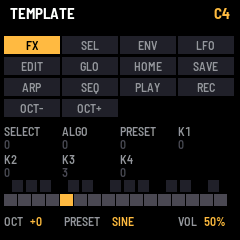
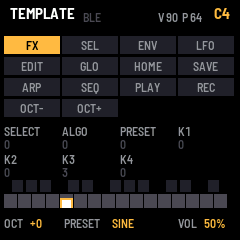
Template: velocity and pressure on the keys, and Bluetooth MIDI
The keys play with velocity (the voice's level, the note's velocity) and send their pressure as
poly aftertouch; a held key fills to its velocity on the screen, white over that for its
pressure, and the header shows both. Bluetooth is on (fm1.toml ble = true, OBJ_BLE), with BLE
in the header lit while a central is connected. Manual, front page, tests and screenshots to
match.

diff --git a/template/app.c b/template/app.c
@@ -2,8 +2,8 @@
  * Copyright (C) 2026 Charles Vestal */
 /* The template app: every control on the screen as it arrives, by the name the app knows it by (plat.h B_*, EN_*,
  * the keys), and a few of them doing something: the keys play a voice and go out over USB-MIDI (MIDI in plays it
- * too), OCT- / OCT+ set the octave, PRESET the wave, MASTER the volume, SAVE stores the settings. One of each thing
- * the platform offers, kept short. Part of the unity build (device/unity.c, host/plat_host.c), after the platform:
+ * too), OCT- / OCT+ set the octave, PRESET the wave, MASTER the volume, SAVE stores the settings; the keys are
+ * played with velocity and pressure (lib/touch.h), shown on them. One of each thing the platform offers, kept short. Part of the unity build (device/unity.c, host/plat_host.c), after the platform:
  * gfx.c and announce.c are in scope. */
 #include "fastmath.h"
 
@@ -26,9 +26,14 @@ static const char *const ENC_NAME[NE] = {"SELECT", "ALGO", "PRESET", "K1", "K2",
 /* ------------------------------------------------------------------ voice --- */
 /* one voice, the last note wins; the main loop and MIDI in set it, the audio interrupt plays it */
 static volatile int32_t voice_note = -1;     /* MIDI note, -1 = released */
+static volatile float voice_vel = 1.0f;      /* the note's velocity, 0..1 */
 static float voice_phase, voice_level, gain_now;   /* gain_now glides to MASTER: no step at a block's edge */
 
-static void note_on(int32_t note) { voice_note = note; }
+static void note_on(int32_t note, uint32_t vel)
+{
+    voice_vel = (float)vel / 127.0f;
+    voice_note = note;
+}
 static void note_off(int32_t note)
 {
     if (voice_note == note)
@@ -41,7 +46,7 @@ static void midi_in(void)                    /* audio interrupt: the packets tha
     while (plat_midi_in(&pkt, 0)) {
         uint32_t st = (pkt >> 8) & 0xFFu, d1 = (pkt >> 16) & 0x7Fu, d2 = pkt >> 24;
         if ((st & 0xF0u) == 0x90u && d2)
-            note_on((int32_t)d1);
+            note_on((int32_t)d1, d2);
         else if ((st & 0xF0u) == 0x80u || (st & 0xF0u) == 0x90u)
             note_off((int32_t)d1);
     }
@@ -51,7 +56,7 @@ void app_render(int32_t *lr, uint32_t n, uint32_t master_q12)
 {
     uint32_t i;
     int32_t note = voice_note;
-    float target = note >= 0 ? 0.25f : 0.0f;
+    float target = note >= 0 ? 0.25f * voice_vel : 0.0f;
     float inc = note >= 0 ? 440.0f * fm_exp2f((float)(note - 69) / 12.0f) / 44100.0f : 0.0f;
     float gain = (float)master_q12 / 4096.0f * 8300000.0f;   /* MASTER, read once a block */
     midi_in();
@@ -95,6 +100,8 @@ static struct {
     char msg[2][24];                     /* a short message over the header */
     uint32_t msg_until;
     uint32_t keys, btn;                  /* held at the last input */
+    uint8_t vel[NKEYS], prs[NKEYS];      /* each key's last velocity, and its pressure while held */
+    int32_t last_key;                    /* the key pressed last: its numbers in the header */
     int32_t turns[NE];                   /* detents since boot, per encoder */
     uint32_t turned_at[NE];              /* when each was last turned: it shows lit for a moment */
     uint8_t redraw;
@@ -195,17 +202,28 @@ static void octave_step(int32_t d)
 
 static void input(void)
 {
-    uint32_t keys = plat_keys(), btn = plat_buttons(), k;
+    uint32_t keys, btn = plat_buttons(), k;
     int32_t e;
+    touch_poll();                            /* the sensed keys' presses, velocities and pressure */
+    keys = touch_keys();
     for (k = 0; k < NKEYS; k++) {            /* key 0 is F3 (MIDI 53) */
-        uint32_t bit = 1u << k;
+        uint32_t bit = 1u << k, v;
         int32_t note = 53 + (int32_t)k + 12 * set.octave;
         if ((keys & bit) && !(ui.keys & bit)) {
-            note_on(note);
-            plat_midi_send(0x09u | 0x90u << 8 | (uint32_t)note << 16 | 100u << 24, TO_USB | TO_BLE);   /* BLE: if built with it */
+            v = touch_vel(k);
+            ui.vel[k] = (uint8_t)v;
+            ui.prs[k] = 0;
+            ui.last_key = (int32_t)k;
+            note_on(note, v);
+            plat_midi_send(0x09u | 0x90u << 8 | (uint32_t)note << 16 | v << 24, TO_USB | TO_BLE);   /* BLE: if built with it */
         } else if (!(keys & bit) && (ui.keys & bit)) {
+            ui.prs[k] = 0;
             note_off(note);
             plat_midi_send(0x08u | 0x80u << 8 | (uint32_t)note << 16, TO_USB | TO_BLE);
+        } else if ((keys & bit) && touch_pressure(k) != ui.prs[k]) {   /* pressure: poly aftertouch */
+            ui.prs[k] = touch_pressure(k);
+            ui.redraw = 1;
+            plat_midi_send(0x0Au | 0xA0u << 8 | (uint32_t)note << 16 | (uint32_t)ui.prs[k] << 24, TO_USB | TO_BLE);
         }
     }
     for (k = 0; k < NB; k++) {               /* a button pressed: its name, and what it does here */
@@ -259,6 +277,19 @@ static void cell(int32_t x, int32_t y, int32_t w, const char *s, int on)   /* a 
     cv_text(x + (w - text_w(&FONT_XS, s)) / 2, y + 2, &FONT_XS, s, on ? C_BLACK : C_GRAY);
 }
 
+static void key_cell(int32_t x, int32_t y, int32_t w, int32_t h, uint32_t k, uint16_t off)
+{
+    int32_t v, p;
+    cv_rect(x, y, w, h, off);
+    if (!(ui.keys >> k & 1u))
+        return;
+    v = (ui.vel[k] * h + 126) / 127;
+    p = (ui.prs[k] * h + 126) / 127;
+    cv_rect(x, y + h - v, w, v, C_HI);
+    if (p)
+        cv_rect(x + 2, y + h - p, w - 4, p, C_WHITE);
+}
+
 static void draw(void)
 {
     char t[24];
@@ -271,10 +302,23 @@ static void draw(void)
         int32_t x = cv_text(10, 6, &FONT_B, ui.msg[0], C_WHITE);
         cv_text(x + 8, 6, &FONT_B, ui.msg[1], C_HI);
     } else {
-        cv_text(10, 6, &FONT_B, APP_NAME, C_WHITE);
-        if (note >= 0) {
+        int32_t x = cv_text(10, 6, &FONT_B, APP_NAME, C_WHITE);
+        if (FM1B_BLE)                        /* Bluetooth: grey while it waits, lit while a computer is connected */
+            cv_text(x + 8, 10, &FONT_XS, "BLE", plat_ble_connected() ? C_HI : C_DIM);
+        if (note >= 0) {                     /* the note, and the last key's velocity and pressure */
+            int32_t x;
             note_name(note, t);
-            cv_text(230 - text_w(&FONT_B, t), 6, &FONT_B, t, C_HI);
+            x = 230 - text_w(&FONT_B, t);
+            cv_text(x, 6, &FONT_B, t, C_HI);
+            if (ui.keys >> ui.last_key & 1u) {
+                char n[24] = "V ";
+                int_text(ui.vel[ui.last_key], t);
+                text_cat(n, t);
+                text_cat(n, "  P ");
+                int_text(ui.prs[ui.last_key], t);
+                text_cat(n, t);
+                cv_text(x - 12 - text_w(&FONT_XS, n), 10, &FONT_XS, n, C_GRAY);
+            }
         }
     }
     cv_blit(0, 0);
@@ -290,35 +334,36 @@ static void draw(void)
         cv_text(x, y + 13, &FONT_XS, t, lit ? C_WHITE : C_DIM);
     }
     cv_blit(0, 36);
-    /* the keys, black above white, lit while held; then the settings */
+    /* the keys, black above white: a held key fills to its velocity (amber), its pressure over that (white) */
     cv_begin(240, 60, C_BLACK);
     for (i = 0; i < 16u; i++)
-        cv_rect(4 + (int32_t)i * 14, 14, 13, 12, (ui.keys >> WK[i]) & 1u ? C_HI : C_DIM);
+        key_cell(4 + (int32_t)i * 14, 14, 13, 14, WK[i], C_DIM);
     for (i = 0; i < 11u; i++) {
         static const uint8_t AT[11] = {0, 1, 2, 4, 5, 7, 8, 9, 11, 12, 14};   /* the white key each one follows */
-        cv_rect(4 + (int32_t)AT[i] * 14 + 8, 0, 11, 12, (ui.keys >> BK[i]) & 1u ? C_HI : C_LINE);
+        key_cell(4 + (int32_t)AT[i] * 14 + 8, 0, 11, 12, BK[i], C_LINE);
     }
     octave_text(t);
-    cv_text(4, 34, &FONT_XS, "OCT", C_GRAY);
-    cv_text(30, 34, &FONT_XS, t, C_HI);
-    cv_text(64, 34, &FONT_XS, "PRESET", C_GRAY);
-    cv_text(112, 34, &FONT_XS, WAVE_NAME[set.wave], C_HI);
-    cv_text(178, 34, &FONT_XS, "VOL", C_GRAY);
+    cv_text(4, 36, &FONT_XS, "OCT", C_GRAY);
+    cv_text(30, 36, &FONT_XS, t, C_HI);
+    cv_text(64, 36, &FONT_XS, "PRESET", C_GRAY);
+    cv_text(112, 36, &FONT_XS, WAVE_NAME[set.wave], C_HI);
+    cv_text(178, 36, &FONT_XS, "VOL", C_GRAY);
     int_text((int32_t)pct, t);
     text_cat(t, "%");
-    cv_text(204, 34, &FONT_XS, t, C_HI);
+    cv_text(204, 36, &FONT_XS, t, C_HI);
     cv_blit(0, 180);
 }
 
 void app_ui_init(void)
 {
+    touch_on(1);                             /* velocity and pressure: the keys' readings on */
     lcd_fill(0, 0, 240, 240, C_BLACK);
     ui.redraw = 1;
 }
 
 void app_frame(void)
 {
-    static uint32_t last_pct, lit_until;
+    static uint32_t last_pct, lit_until, last_ble;
     uint32_t i, now = plat_ms(), pct = plat_master() * 100u / 4096u;
     input();
     speak();
@@ -329,8 +374,9 @@ void app_frame(void)
         lit_until = 0;
         ui.redraw = 1;
     }
-    if (pct != last_pct || (ui.msg_until && now >= ui.msg_until)) {
+    if (pct != last_pct || (uint32_t)plat_ble_connected() != last_ble || (ui.msg_until && now >= ui.msg_until)) {
         last_pct = pct;
+        last_ble = (uint32_t)plat_ble_connected();
         if (now >= ui.msg_until)
             ui.msg_until = 0;
         ui.redraw = 1;
@@ -352,6 +398,10 @@ int app_expect(const char *what, int *got)
         *got = voice_note;
     else if (!strcmp(what, "dirty"))
         *got = set_dirty;
+    else if (!strcmp(what, "vel"))           /* the last key's velocity and pressure */
+        *got = ui.vel[ui.last_key];
+    else if (!strcmp(what, "prs"))
+        *got = ui.prs[ui.last_key];
     else if (!strncmp(what, "turns", 5))    /* turnsN: encoder N's count (plat.h EN_*) */
         *got = ui.turns[atoi(what + 5) % NE];
     else

diff --git a/template/app.h b/template/app.h
@@ -9,10 +9,12 @@
 #define APP_NAME "TEMPLATE"
 #define APP_SPLASH_RGB RGB(242, 120, 72)
 #define APP_BLOCK 256u                   /* frames per audio block: 5.8 ms at 44.1 kHz */
+#define APP_TOUCH                        /* velocity and pressure from the keys (lib/touch.h) */
 
-/* the store: the app's objects, the panel calibration (the platform's) among them, and their flash offsets */
-enum { OBJ_SETTINGS, OBJ_PANEL, OBJ_NOBJ };
-#define APP_STORE_MAP {0xFC000u, 0xDC000u}
+/* the store: the app's objects, the panel calibration (the platform's) and Bluetooth's address and pairing among
+ * them, and their flash offsets */
+enum { OBJ_SETTINGS, OBJ_PANEL, OBJ_BLE, OBJ_NOBJ };
+#define APP_STORE_MAP {0xFC000u, 0xDC000u, 0xDE000u}
 
 /* the contract: the platform calls these */
 void app_init(void);                     /* boot: the engine, then the saved settings (or defaults) */

diff --git a/template/docs/MANUAL.md b/template/docs/MANUAL.md
@@ -1,8 +1,8 @@
 # TEMPLATE
 
 TEMPLATE is the smallest complete firmware for the M-VAVE FM-1, made to be copied. Every control shows on the
-screen by its name as you use it, the keys play a simple voice, and a few controls do something: the octave, the
-wave, the volume and saving. It installs, updates, runs in the browser and speaks to a screen reader, as a finished
+screen by its name as you use it, the keys play a simple voice with velocity and pressure, and a few controls do
+something: the octave, the wave, the volume and saving. MIDI goes out over USB and Bluetooth. It installs, updates, runs in the browser and speaks to a screen reader, as a finished
 firmware does.
 
 This manual is also an example: copy it with the template and write your firmware's own.
@@ -40,14 +40,14 @@ doesn't start can be recovered too. For details, see felucca-bsp's `tools/fm1_re
 
 ## 2. The screen
 
-![TEMPLATE while a key is held: C4 in the header, FX lit among the buttons, K3 at 3, the key lit on the keyboard](img/screen-playing.png "A key held, FX pressed, K3 turned")
+![TEMPLATE while a key is held: C4 in the header with V 90 P 64, FX lit among the buttons, K3 at 3, the key filled on the keyboard](img/screen-playing.png "A key held, FX pressed, K3 turned")
 
 | Part | What it shows |
 | --- | --- |
-| Header | The name, and the note while a key plays. A message for a moment after a change. |
+| Header | The name, and BLE: lit while a computer or tablet is connected over Bluetooth. While a key plays, its note, the velocity it landed at (V) and how hard it's pressed (P). A message for a moment after a change. |
 | Buttons | All 14, by their names. A button lights while it's held. |
 | Knobs | The seven encoders, each with a count of its turns. A knob lights for a moment as it turns. |
-| Keys | The 27 keys, black above white. A key lights while it's held. |
+| Keys | The 27 keys, black above white. A held key fills to its velocity, and white over that shows its pressure. |
 | Bottom line | The octave, the wave (on PRESET) and the volume (MASTER). |
 
 ---
@@ -56,7 +56,7 @@ doesn't start can be recovered too. For details, see felucca-bsp's `tools/fm1_re
 
 | Control | What it does |
 | --- | --- |
-| Keys | Play the voice, and send the note over USB-MIDI on channel 1. The last key pressed sounds. |
+| Keys | Play the voice, louder the harder they land, and send the note over USB and Bluetooth on channel 1, with its velocity. Pressing a held key harder sends aftertouch. The last key pressed sounds. |
 | OCT− · OCT+ | The octave, from −2 to +2. |
 | PRESET | The wave: sine or triangle. |
 | MASTER | The volume. |
@@ -76,8 +76,15 @@ there are changes to save.
 
 ## 5. MIDI
 
-MIDI comes in over USB and the TRS jack. A note on any channel plays the voice; a note off releases it. The keys
-send notes out over USB.
+MIDI comes in over USB, Bluetooth and the TRS jack. A note on any channel plays the voice; a note off releases it.
+The keys send notes, with their velocity, and poly aftertouch out over USB and Bluetooth.
+
+Over Bluetooth, TEMPLATE advertises as "FM-1". On a Mac, open Audio MIDI Setup, choose Window > Show MIDI Studio,
+click the Bluetooth button, then Connect next to FM-1. On an iPad or iPhone, connect from a music app's Bluetooth
+MIDI settings.
+
+The keys sense how hard they're played, with no change to the FM-1. The 20 lowest keys
+(F3 to C5) give velocity and pressure; the top seven give velocity only.
 
 ---
 

diff --git a/template/site/landing.md b/template/site/landing.md
@@ -1,10 +1,11 @@
 # TEMPLATE
 
 TEMPLATE is the smallest complete firmware for the M-VAVE FM-1, made to be copied: every control on the screen by
-its name, a simple voice on the keys, settings that save, MIDI over USB and TRS, and a screen reader. Copy it to
+its name, a simple voice on the keys with velocity and pressure, settings that save, MIDI over USB, Bluetooth and
+TRS, and a screen reader. Copy it to
 start your own firmware on fm1-base.
 
-![TEMPLATE while a key is held: C4 in the header, FX lit among the buttons, K3 at 3, the key lit](manual/img/screen-playing.png "TEMPLATE on the FM-1's screen")
+![TEMPLATE while a key is held: C4 in the header with V 90 P 64, FX lit among the buttons, K3 at 3, the key filled](manual/img/screen-playing.png "TEMPLATE on the FM-1's screen")
 
 Version {{VERSION}}. Installing is at your own risk; the installer can put M-VAVE's own firmware back.
 
